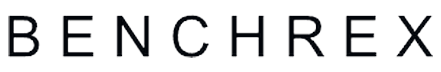
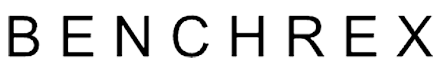
Unify HYDRA/DEHYDRUS/BENCHREX/BIASREX title shades across themes.
Rail titles now use one --engine-title color token so black, grey, and white stay matched.

diff --git a/ui/v2/app.js b/ui/v2/app.js
@@ -11,8 +11,8 @@
     {
       id: "hydra",
       label: "HYDRA",
-      wordOnDark: "assets/hydra-word-white.png",
-      wordOnLight: "assets/hydra-word-black.png",
+      wordOnDark: "assets/hydra-word-white.png?v=shade1",
+      wordOnLight: "assets/hydra-word-black.png?v=shade1",
       art: "assets/hydra-logo.png?v=3",
       artGrey: "assets/hydra-logo-grey.png?v=3",
       blurbs:
@@ -30,8 +30,8 @@
     {
       id: "dehydrus",
       label: "DEHYDRUS",
-      wordOnDark: "assets/dehydrus-word-white.png",
-      wordOnLight: "assets/dehydrus-word-black.png",
+      wordOnDark: "assets/dehydrus-word-white.png?v=shade1",
+      wordOnLight: "assets/dehydrus-word-black.png?v=shade1",
       art: "assets/dehydrus-logo.png?v=3",
       artGrey: "assets/dehydrus-logo-grey.png?v=3",
       blurbs:
@@ -48,8 +48,8 @@
     {
       id: "benchrex",
       label: "BENCHREX",
-      wordOnDark: "assets/benchrex-word-white.png",
-      wordOnLight: "assets/benchrex-word-black.png",
+      wordOnDark: "assets/benchrex-word-white.png?v=shade1",
+      wordOnLight: "assets/benchrex-word-black.png?v=shade1",
       art: "assets/benchrex-logo.png?v=gold3",
       artGrey: "assets/benchrex-logo-grey.png?v=gold3",
       blurbs:
@@ -70,8 +70,8 @@
     {
       id: "biasrex",
       label: "BIASREX",
-      wordOnDark: "assets/biasrex-word-white.png",
-      wordOnLight: "assets/biasrex-word-black.png",
+      wordOnDark: "assets/biasrex-word-white.png?v=shade1",
+      wordOnLight: "assets/biasrex-word-black.png?v=shade1",
       art: null,
       artGrey: null,
       blurbs:
@@ -152,10 +152,10 @@
       btn.type = "button";
       btn.className = "engine-btn" + (e.id === activeId ? " active" : "");
       btn.title = e.label + " - router engine";
-      const img = document.createElement("img");
-      img.src = wordSrc(e);
-      img.alt = e.label;
-      btn.appendChild(img);
+      const word = document.createElement("span");
+      word.className = "engine-word";
+      word.textContent = e.label;
+      btn.appendChild(word);
       btn.addEventListener("click", () => {
         activeId = e.id;
         userPickedEngine = true;

diff --git a/ui/v2/styles.css b/ui/v2/styles.css
@@ -19,6 +19,7 @@
   --logo-art-filter: none;
   --link-blue: #7eb8ff;
   --link-blue-hover: #a8d0ff;
+  --engine-title: #f1f1f1;
   --slide-w: 260px;
   --runs-w: 320px;
   --font: "IBM Plex Sans", system-ui, sans-serif;
@@ -45,6 +46,7 @@
   --logo-art-filter: none;
   --link-blue: #2f6fbf;
   --link-blue-hover: #1e5aa8;
+  --engine-title: #333333;
 }
 
 /* Grey: charcoal only - no blue art anywhere */
@@ -69,6 +71,7 @@
   --logo-art-filter: none;
   --link-blue: #7eb8ff;
   --link-blue-hover: #a8d0ff;
+  --engine-title: #f1f1f1;
 }
 
 * { box-sizing: border-box; }
@@ -467,16 +470,18 @@ button { cursor: pointer; border: 0; background: none; }
   text-align: left;
   padding: 0.2rem 0.1rem;
 }
-.engine-btn img {
+.engine-word {
   display: block;
-  height: 13.32px; /* 12px + 11% */
-  width: auto;
-  max-width: 100%;
-  object-fit: contain;
-  object-position: left center;
-  opacity: 0.78;
+  font-family: var(--font);
+  font-size: 0.78rem;
+  font-weight: 400;
+  letter-spacing: 0.2em;
+  text-transform: uppercase;
+  color: var(--engine-title);
+  line-height: 1.15;
+  opacity: 0.82;
 }
-.engine-btn.active img { opacity: 1; }
+.engine-btn.active .engine-word { opacity: 1; }
 .engine-sub {
   display: flex;
   flex-direction: column;

diff --git a/ui/v2/index.html b/ui/v2/index.html
@@ -7,7 +7,7 @@
   <link rel="preconnect" href="https://fonts.googleapis.com" />
   <link rel="preconnect" href="https://fonts.gstatic.com" crossorigin />
   <link href="https://fonts.googleapis.com/css2?family=IBM+Plex+Mono:wght@400;500&family=IBM+Plex+Sans:wght@300;400;500;600&display=swap" rel="stylesheet" />
-  <link rel="stylesheet" href="styles.css?v=gold7" />
+  <link rel="stylesheet" href="styles.css?v=gold9" />
   <script>
     (function () {
       var t = localStorage.getItem("evalathan_theme");
@@ -101,6 +101,6 @@
       </div>
     </aside>
   </div>
-  <script src="app.js?v=gold7"></script>
+  <script src="app.js?v=gold9"></script>
 </body>
 </html>
